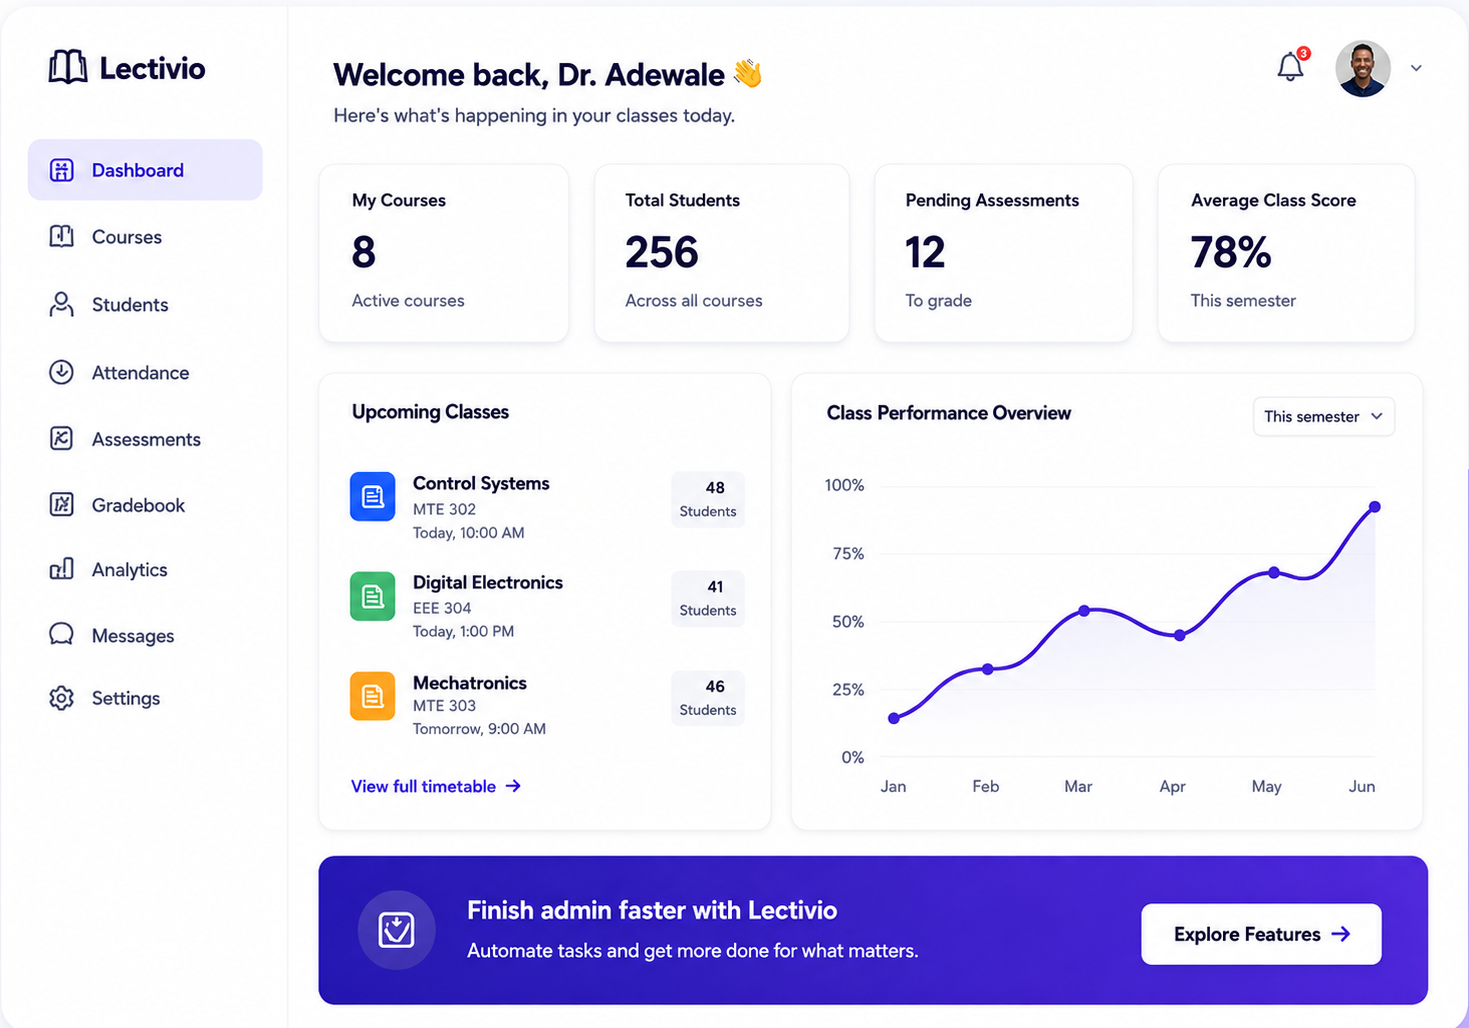
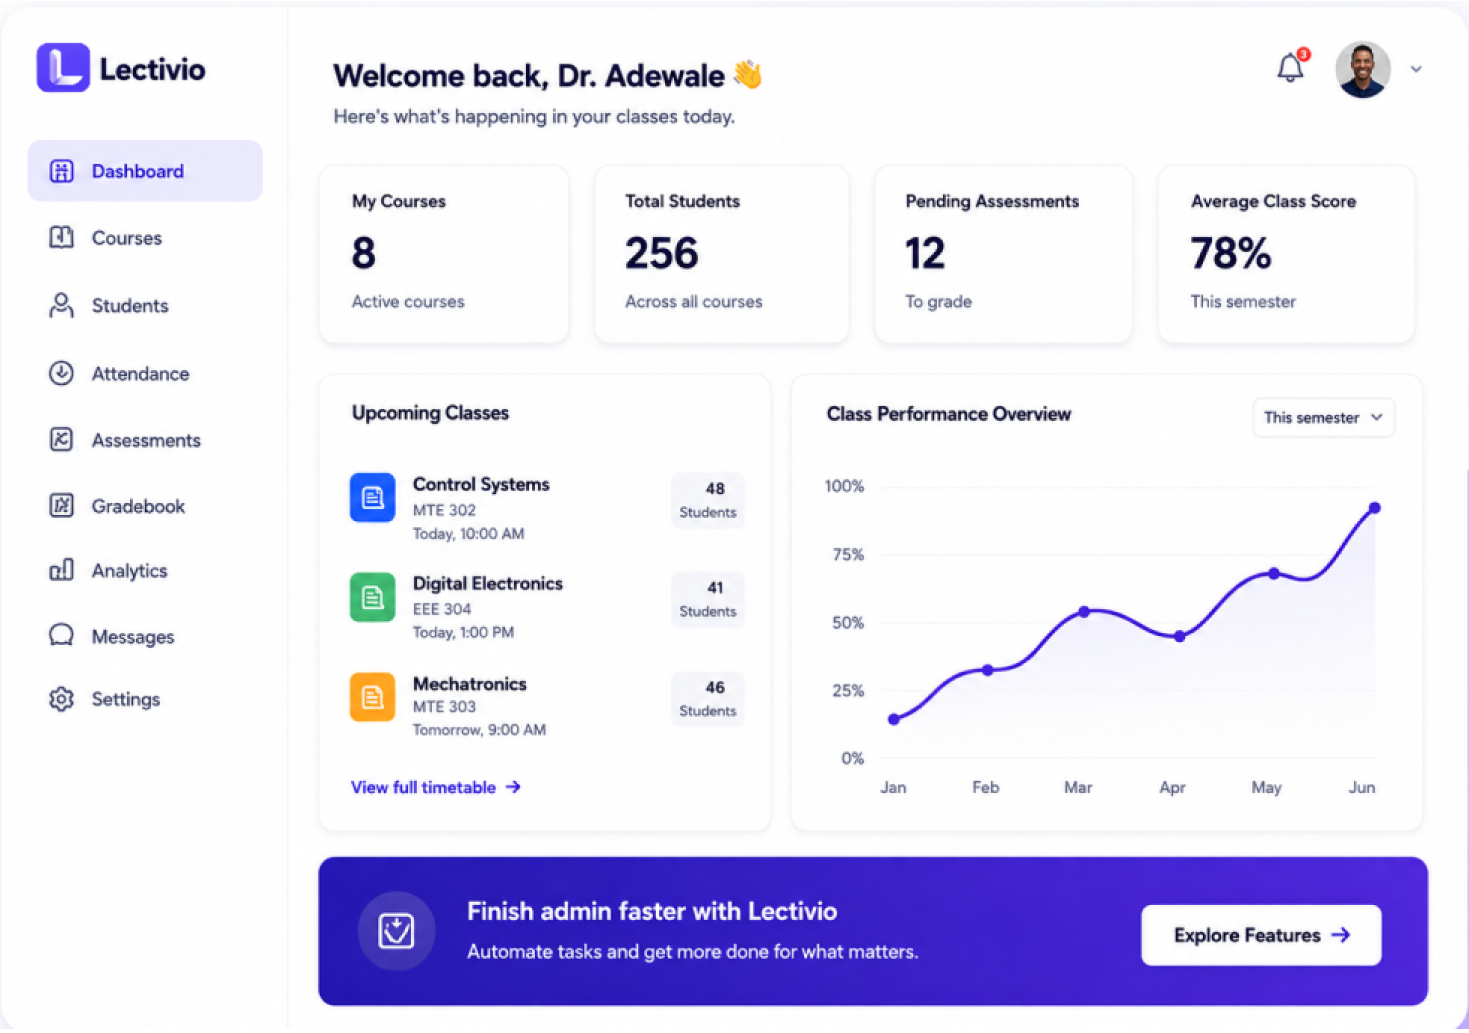
Changed to Googlesheet

diff --git a/src/pages/Landing.jsx b/src/pages/Landing.jsx
@@ -1,5 +1,5 @@
 import React, { useState } from "react";
-import { submitWaitlistEntry } from "../firebase";
+import { submitWaitlistEntry, sendToGoogleSheet } from "../firebase";
 import "./Landing.css";
 
 import {
@@ -50,7 +50,10 @@ export default function Landing() {
   const [menuOpen, setMenuOpen] = useState(false);
 
   const openFlow = () => { setStep(1); setError(""); setFlowOpen(true); };
-  const closeFlow = () => setFlowOpen(false);
+  const closeFlow = () => {
+    window.location.reload()
+    setFlowOpen(false);
+  } 
 
   const update = (key, val) => setForm((f) => ({ ...f, [key]: val }));
   const toggleFeature = (name) =>
@@ -65,11 +68,13 @@ export default function Landing() {
     setSubmitting(true);
     setError("");
     try {
-      await submitWaitlistEntry(form);
+      // await submitWaitlistEntry(form);
+      await sendToGoogleSheet(form);
       setStep(4);
     } catch (err) {
       console.error(err);
       setError("Something went wrong. Please try again.");
+      alert("Something went wrong. Please try again.");
     } finally {
       setSubmitting(false);
     }

diff --git a/src/firebase.js b/src/firebase.js
@@ -83,6 +83,7 @@
 
 import { initializeApp } from "firebase/app";
 import { getFirestore, collection, addDoc, getDocs, query, orderBy, serverTimestamp } from "firebase/firestore";
+import { log } from "firebase/firestore/pipelines";
 
 const firebaseConfig = {
   apiKey: "AIzaSyCLIEnUTggjb9IxOJQoUohOkdt983SwdfA",
@@ -107,4 +108,19 @@ export async function getWaitlistEntries() {
   const q = query(collection(db, "waitlist"), orderBy("createdAt", "desc"));
   const snap = await getDocs(q);
   return snap.docs.map((d) => ({ id: d.id, ...d.data() }));
+}
+
+
+// SEND TO GOOGLESHEET 
+
+export const sendToGoogleSheet = async (form) => {
+  console.log(form);
+  
+    const response = await fetch(
+        "https://script.google.com/macros/s/AKfycbxdZ420V14KPN6_2xPIHwYGyD4dwtMp78Mf1CiUrR1mu7ZeCCl4Lggvr2M_PpP9skyz_w/exec", {
+            method: "POST",
+            body: JSON.stringify(form)
+        }
+    );
+    // const result = await response.json();
 }
